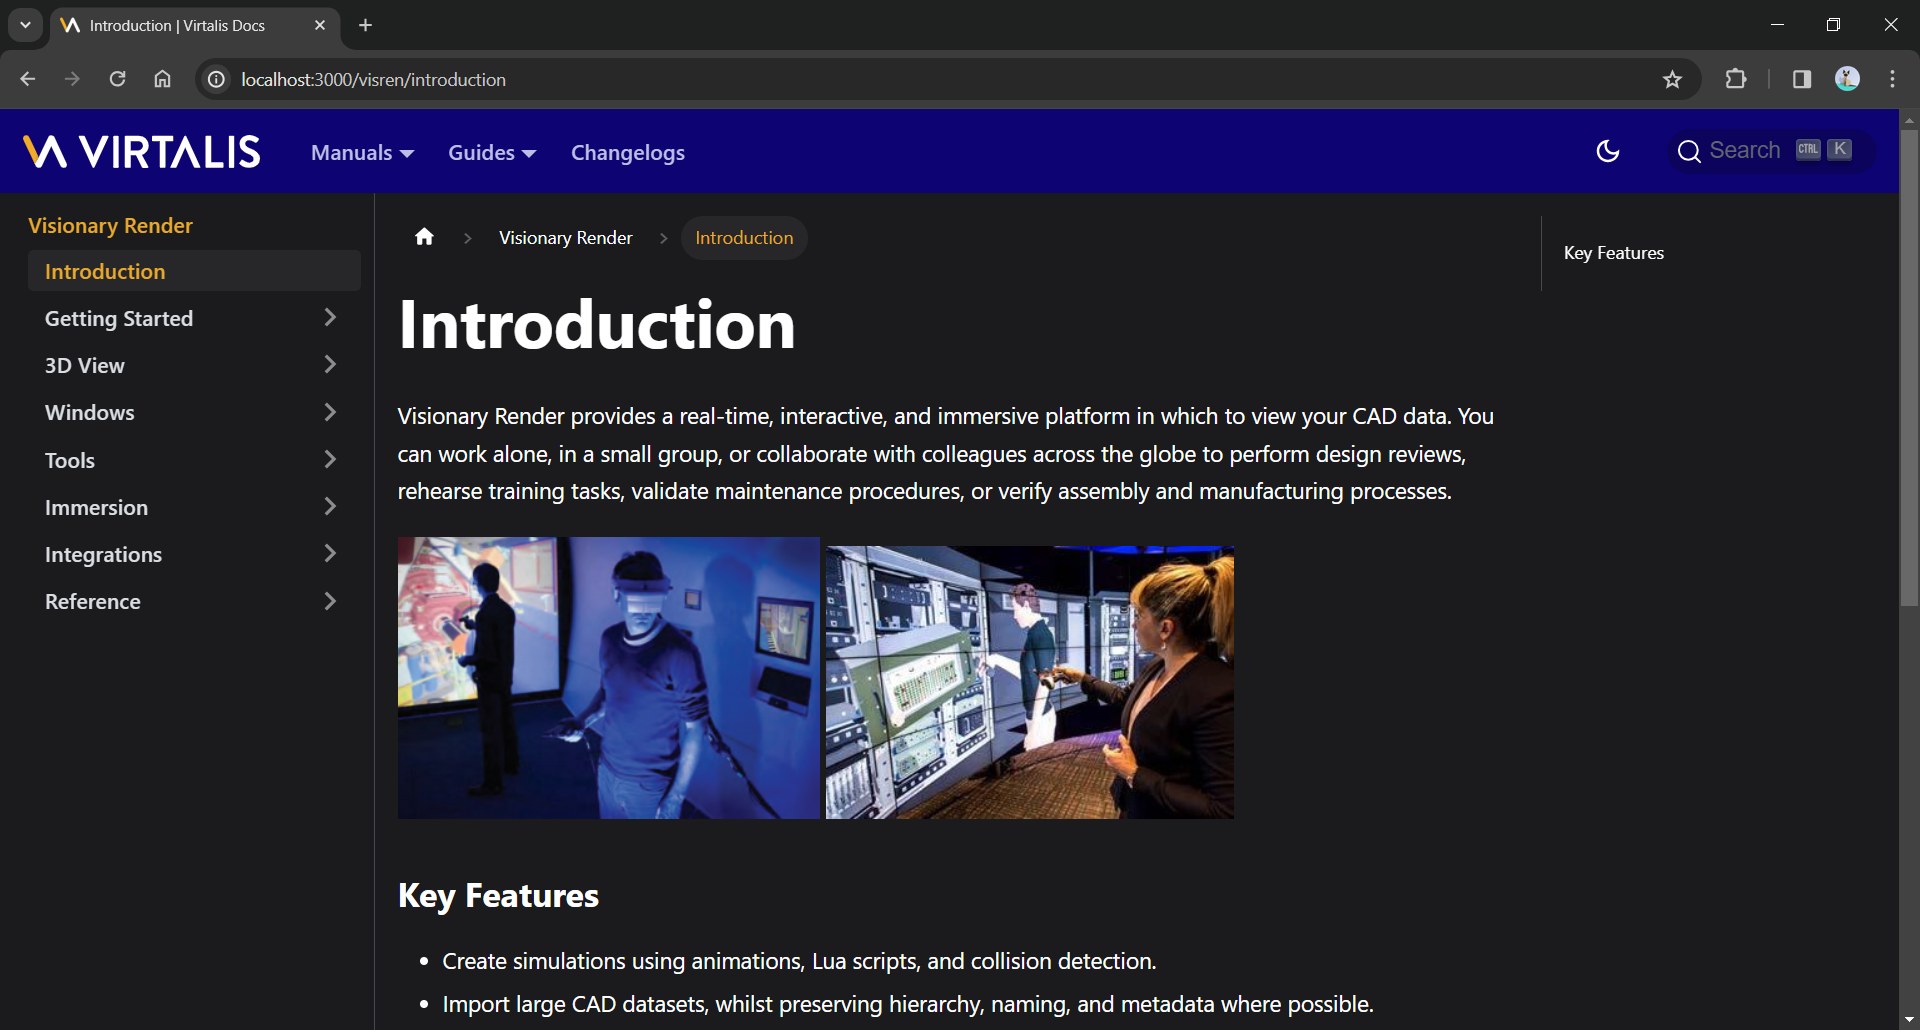
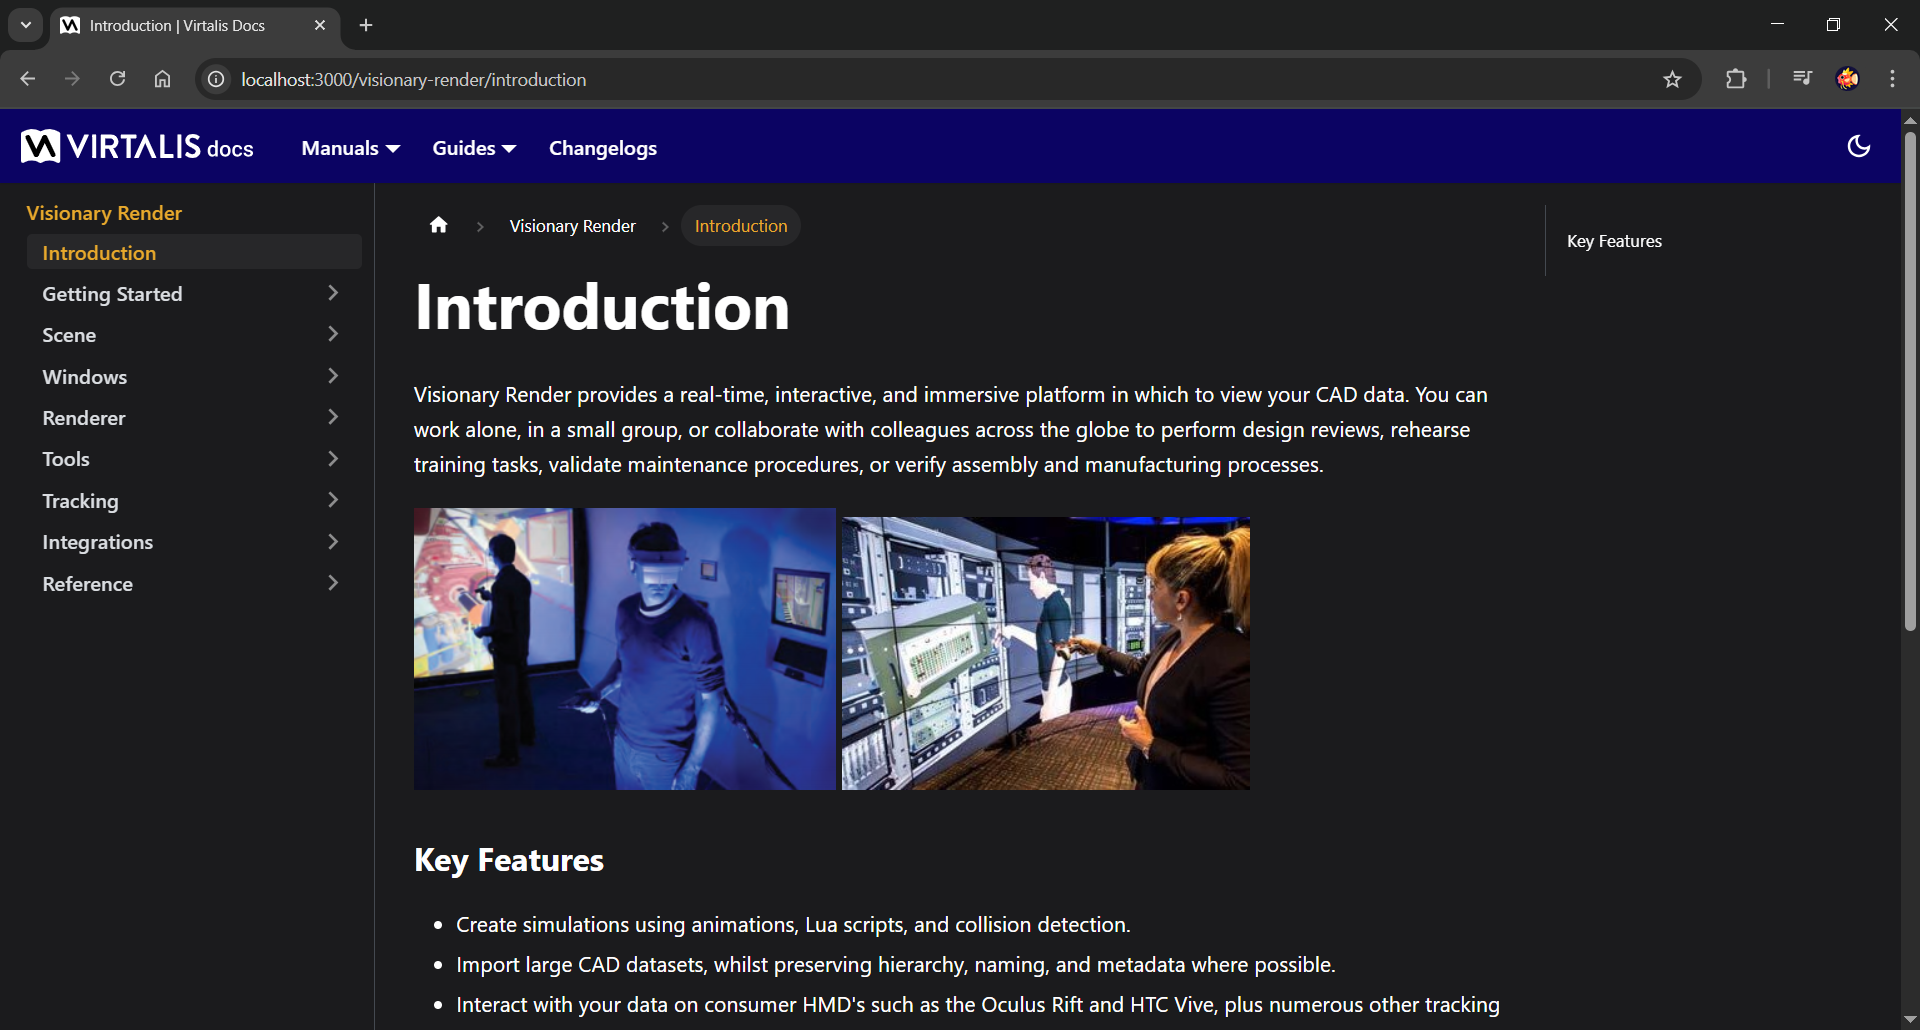
Tweak the theme and bump version number to 2025.1

diff --git a/docusaurus.config.js b/docusaurus.config.js
@@ -7,30 +7,24 @@ const config = {
   title: 'Virtalis Docs',
   tagline: 'Documentation portal for Virtalis applications',
   favicon: 'favicon.ico',
-
-  // Set the production url of your site here
   url: 'https://www.docs.virtalis.com',
-  // Set the /<baseUrl>/ pathname under which your site is served
-  // For GitHub pages deployment, it is often '/<projectName>/'
   baseUrl: '/',
-
-  // GitHub pages deployment config.
-  // If you aren't using GitHub pages, you don't need these.
-  organizationName: 'virtalis', // Usually your GitHub org/user name.
-  projectName: 'docs', // Usually your repo name.
-
+  organizationName: 'virtalis',
+  projectName: 'docs',
   onBrokenLinks: 'throw',
   onBrokenAnchors: 'warn',
   onBrokenMarkdownLinks: 'warn',
 
-  // Even if you don't use internationalization, you can use this field to set
-  // useful metadata like html lang. For example, if your site is Chinese, you
-  // may want to replace "en" with "zh-Hans".
   i18n: {
     defaultLocale: 'en',
     locales: ['en'],
   },
-
+  //plugins: [
+  //  require.resolve('docusaurus-lunr-search')
+  //],
+  future: {
+    experimental_router: 'hash',
+  },
   presets: [
     [
       'classic',
@@ -51,26 +45,16 @@ const config = {
       }),
     ],
   ],
-
-  plugins: [
-    require.resolve('docusaurus-lunr-search')
-  ],
-
-  //future: {
-  //  experimental_router: 'hash',
-  //},
-
   themeConfig:
     /** @type {import('@docusaurus/preset-classic').ThemeConfig} */
     ({
       colorMode: {
-        respectPrefersColorScheme: true,
+        defaultMode: 'dark',
       },
       navbar: {
-        title: '',
         logo: {
           src: 'logo.svg',
-          width: 186,
+          width: 184,
         },
       items: [
         {

diff --git a/src/css/custom.css b/src/css/custom.css
@@ -16,11 +16,12 @@
   --ifm-color-primary-lighter: #f67800;
   --ifm-color-primary-lightest: #ff8817;
 
+  --ifm-background-color: rgb(242, 242, 242);
   --ifm-font-size-base: 17px;
   --ifm-font-color-base: var(--ifm-color-black);
-  --ifm-code-font-size: 95%;
+  --ifm-code-font-size: 90%;
   --ifm-table-cell-padding: 0.5rem;
-  --ifm-footer-background-color: rgb(242, 242, 242);
+  --ifm-footer-background-color: rgb(230, 230, 230);
   --ifm-footer-padding-vertical: calc(var(--ifm-spacing-vertical));
   --docusaurus-highlighted-code-line-bg: rgba(0, 0, 0, 0.3);
 }

diff --git a/src/css/sidebar.css b/src/css/sidebar.css
@@ -1,10 +1,10 @@
 :root {
-  --ifm-menu-color: var(--ifm-color-gray-700);
+  --ifm-menu-color: var(--ifm-color-gray-900);
   --ifm-menu-link-padding-vertical: 0.225rem;
 }
 
 [data-theme='dark'] {
-  --ifm-menu-color: var(--ifm-color-gray-300);
+  --ifm-menu-color: var(--ifm-color-gray-100);
 }
 
 .theme-doc-sidebar-menu {
